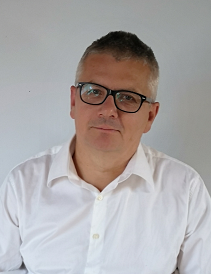
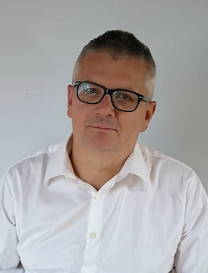
Add files via upload

diff --git a/index.html b/index.html
@@ -7,14 +7,17 @@
 		<meta name="author" content="Krzysztof Wysokiński">
 		<meta name="viewport" content="width=device-width, initial-scale=1.0">
 		<link rel="stylesheet" type="text/css" href="style.css" />
-	<!--	<link href="https://fonts.googleapis.com/css?family=Lato&display=swap&subset=latin-ext" rel="stylesheet"> -->
-	
+		
 	</head>
 
 	<body>
 		<header>
-			<div>
-				<img src="KWcv2.png" />
+			<div id = "fotografia">
+				<div class="zdjecie">
+				<img src="KWcv2.png" 
+				onMouseOver="this.src='zdjecie_naj.png'" 
+				onMouseOut="this.src='KWcv2.png'">
+				</div>
 			</div>
 			<h1>Krzysztof <!-- Cezary-->Wysokiński</h1>
 			<section>
